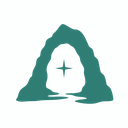
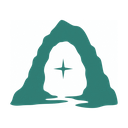
Normalise the seal negative space and add button breathing space
Trim the seal to its content and re-pad to a uniform 84 percent fill so
every mark in the portfolio sits at a consistent size, regenerate the
favicon ladder from the new master, and add a line of breathing space
before the Buy Me a Coffee button in the README.

Changed region(s): [[0.0625, 0.1562, 0.9375, 0.8438], [0.4062, 0.4688, 0.5625, 0.625]]

diff --git a/README.md b/README.md
@@ -8,6 +8,8 @@
 
 Where Pythia speaks for OpenAI, Sibyl speaks for Gemini. One MCP across the whole generative surface: text, image, video, speech, embeddings, and deep research. Built for personal use, shared openly, not productised.
 
+<br/>
+
 <a href="https://www.buymeacoffee.com/hello_emrah"><img src="https://img.buymeacoffee.com/button-api/?text=Buy%20me%20a%20coffee&emoji=%E2%98%95&slug=hello_emrah&button_colour=2E7D74&font_colour=ffffff&coffee_colour=ffffff&outline_colour=ffffff&font_family=Inter" alt="Buy me a coffee" height="44" /></a>
 
 </div>
